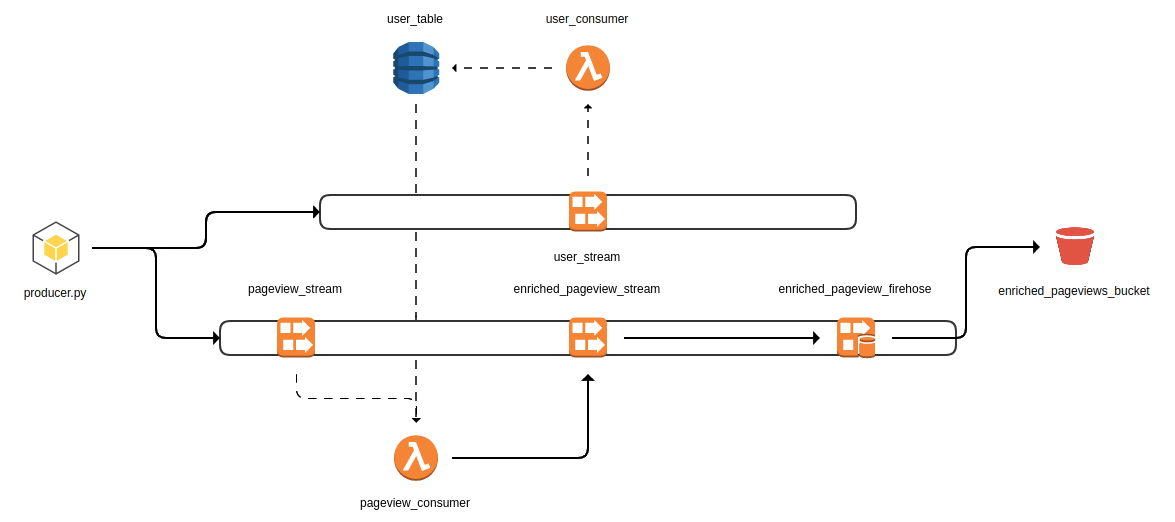
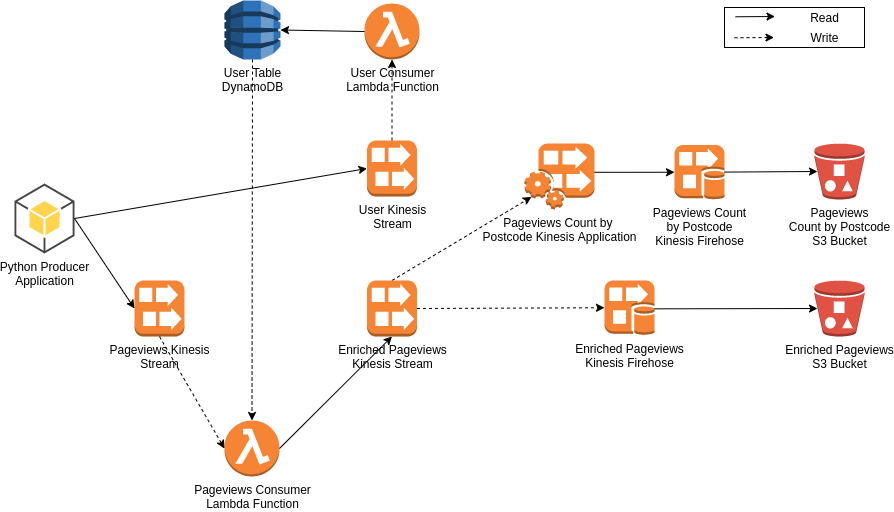
Updates documentation

diff --git a/README.md b/README.md
@@ -1,7 +1,8 @@
 # Realtime Pipeline
 
-This repo contains a realtime pipeline using 3 Kinesis streams, 1 Kinesis Data Stream, 1 DynamoDB
-and 2 Lambda functions. I've created this mostly as an exercise to get up to speed with terraform.
+This repo contains a realtime pipeline using 3 Kinesis streams, 1 Kinesis Data Analytics Application,
+2 Kinesis Firehoses, 1 DynamoDB, 2 Lambda functions and 2 S3 Buckets. I've created this mostly as 
+an exercise to get up to speed with terraform.
 
 ## Requirements
 Please install:
@@ -26,6 +27,9 @@ postcode, which the function gets from the DynamoDB. Enriched records containing
 `postcode` are subsequently published to another Kinesis stream.
 * Kinesis stream containing enriched pageviews with triplets `user_id`, `url`, `postcode`.
 * Kinesis delivery stream (firehose) writing enriched pageviews into an S3 bucket
+* Kinesis Data Analytics application aggregating pageviews by postcode on a 1 minute tumbling window
+and writing into another Kinesis delivery stream (firehose)
+* Kinesis delivery stream (firehose) writing pageview counts into an S3 bucket
 
 ![Image description](img/diagram.png)
 
